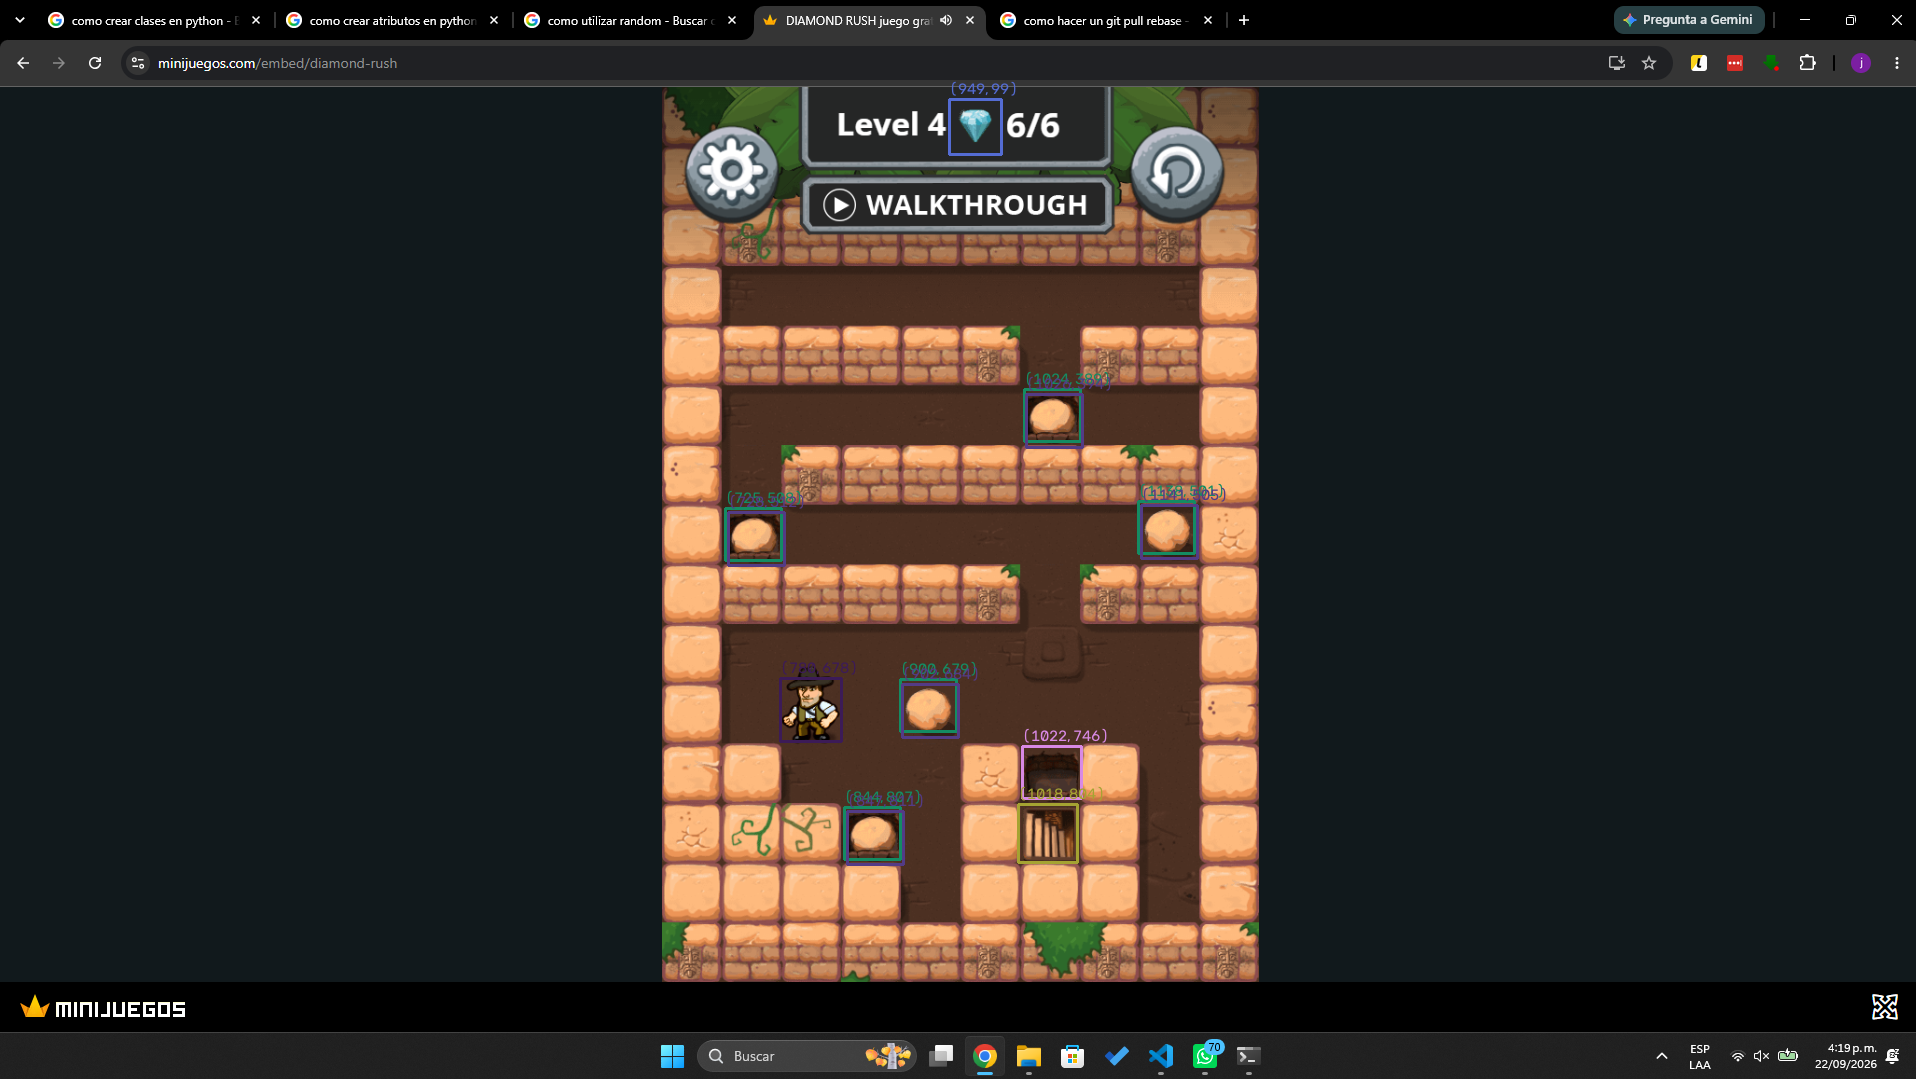
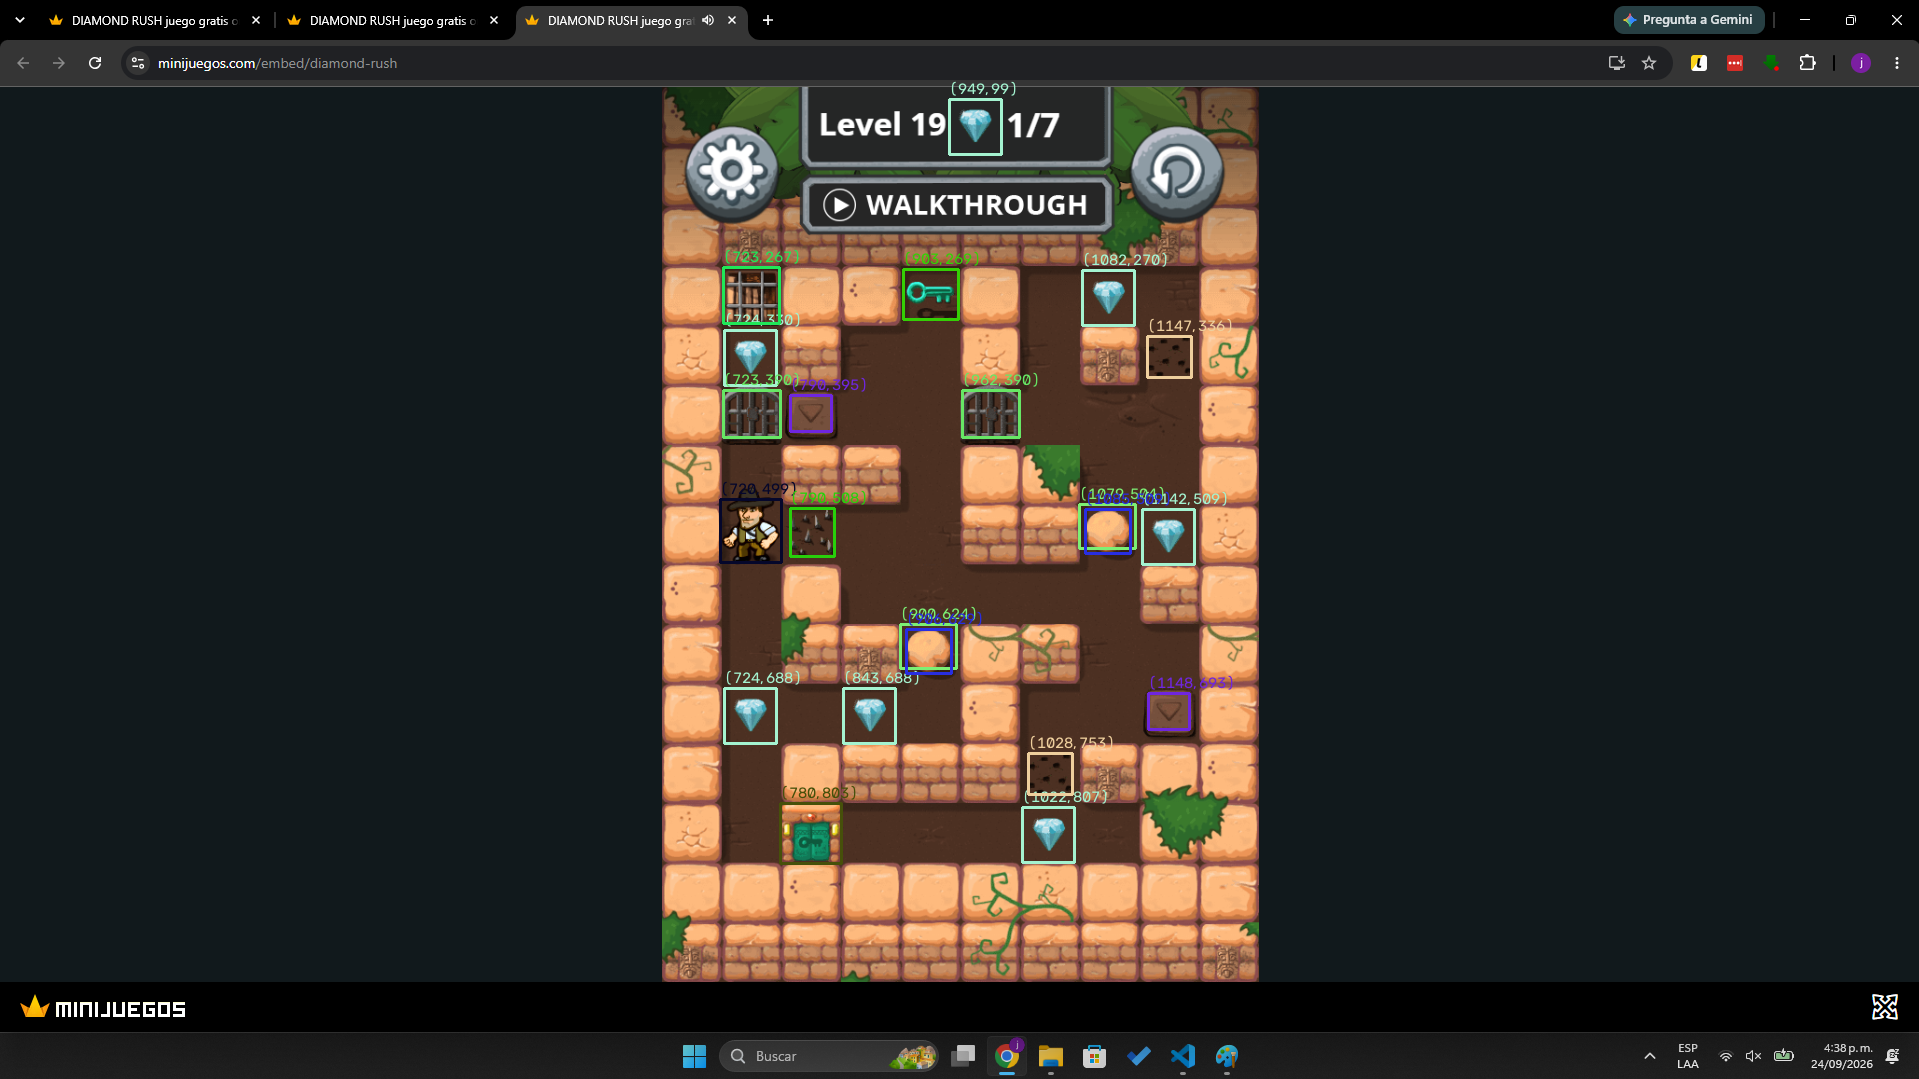
mejor compatibilidad con las imagenes

diff --git a/Diamond_rush/Search_objects.py b/Diamond_rush/Search_objects.py
@@ -84,6 +84,7 @@ class MatchTemplate:
 BASE_DIR = Path(__file__).resolve().parent
 
 imagen_path = BASE_DIR / "captura.png"
+# imagen_path = BASE_DIR / "levels" / "level19.png"
 template_path = BASE_DIR / "templates" / "personaje.png"
 personaje_path = BASE_DIR / "templates" / "personaje.png"
 diamond_path = BASE_DIR / "templates" / "diamond.png"
@@ -96,9 +97,13 @@ rock_path = BASE_DIR / "templates" / "rock.png"
 scape_block_path = BASE_DIR / "templates" / "scape_block.png"
 space_enable_path = BASE_DIR / "templates" / "scape_enable.png"
 no_picos_path = BASE_DIR / "templates" / "no_picos.png"
+button_path = BASE_DIR / "templates" / "button.png"
+lava_path = BASE_DIR / "templates" / "lava.png"
+reja_path = BASE_DIR / "templates" / "reja.png"
 
 UMBRAL = 0.80
-
+UMBRAL = 0.90
+# UMBRAL = 0.96
 # Fracción máxima del área del template que dos coincidencias pueden compartir
 # antes de considerarse la misma meseta (0 = nada, 1 = todo)
 SOLAPE_MAX = 0.4
@@ -117,14 +122,15 @@ objects = [
     MatchTemplate(rock_path, imagen), 
     MatchTemplate(scape_block_path, imagen), 
     MatchTemplate(space_enable_path, imagen),
-    MatchTemplate(no_picos_path, imagen)
+    MatchTemplate(no_picos_path, imagen),
+    MatchTemplate(button_path, imagen),
+    MatchTemplate(lava_path, imagen),
+    MatchTemplate(reja_path, imagen)
     ]
 
 
-# ==========================================
-# DIBUJAR RESULTADOS
-# ==========================================
-
+# Obteiene los resultados 
+data = []
 for obj in objects:
     
     xs, ys = obj.match_template(threshold=UMBRAL)
@@ -133,7 +139,11 @@ for obj in objects:
     r = int(random() * 255)
     g = int(random() * 255)
     b = int(random() * 255)
+    data.append((xs,ys,h,w,r,g,b))
     
+
+# Dibuja los resultados en la imagen
+for xs, ys, h, w, r, g, b in data:
     for x, y in zip(xs, ys):
 
         x = int(x)
